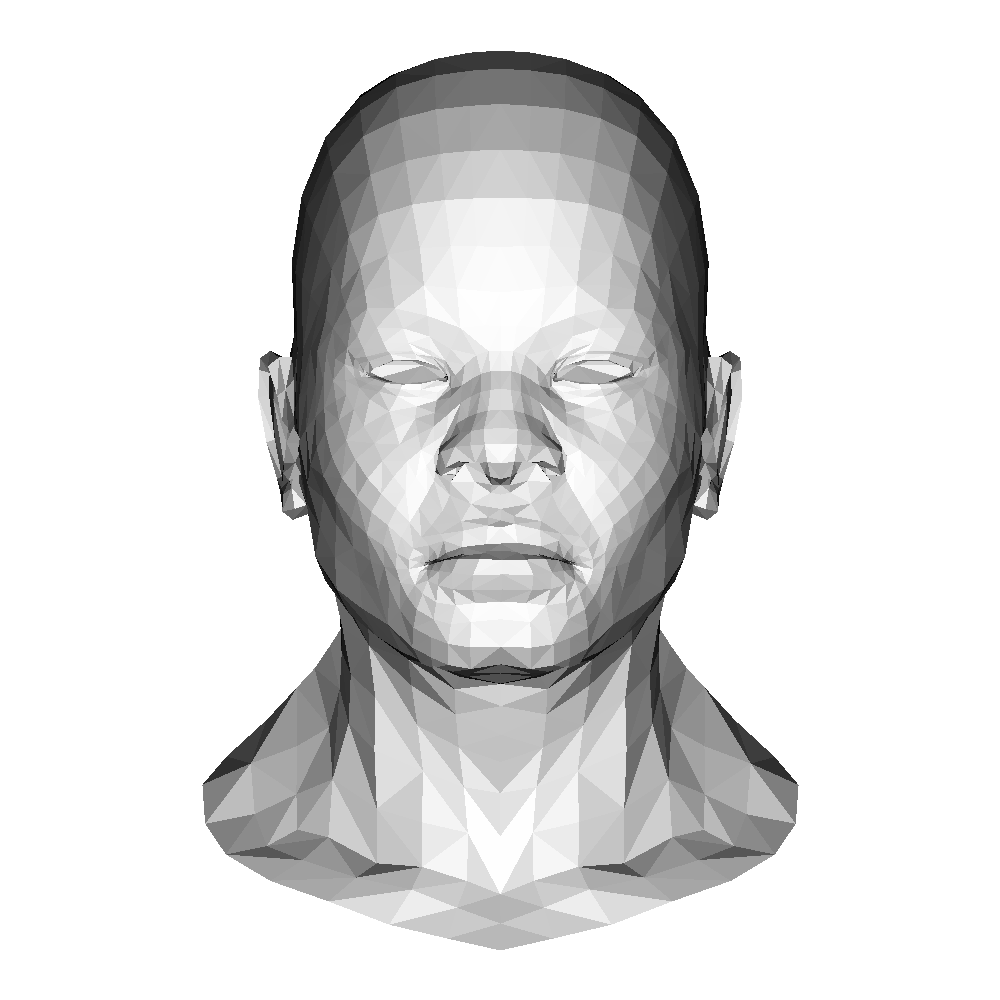
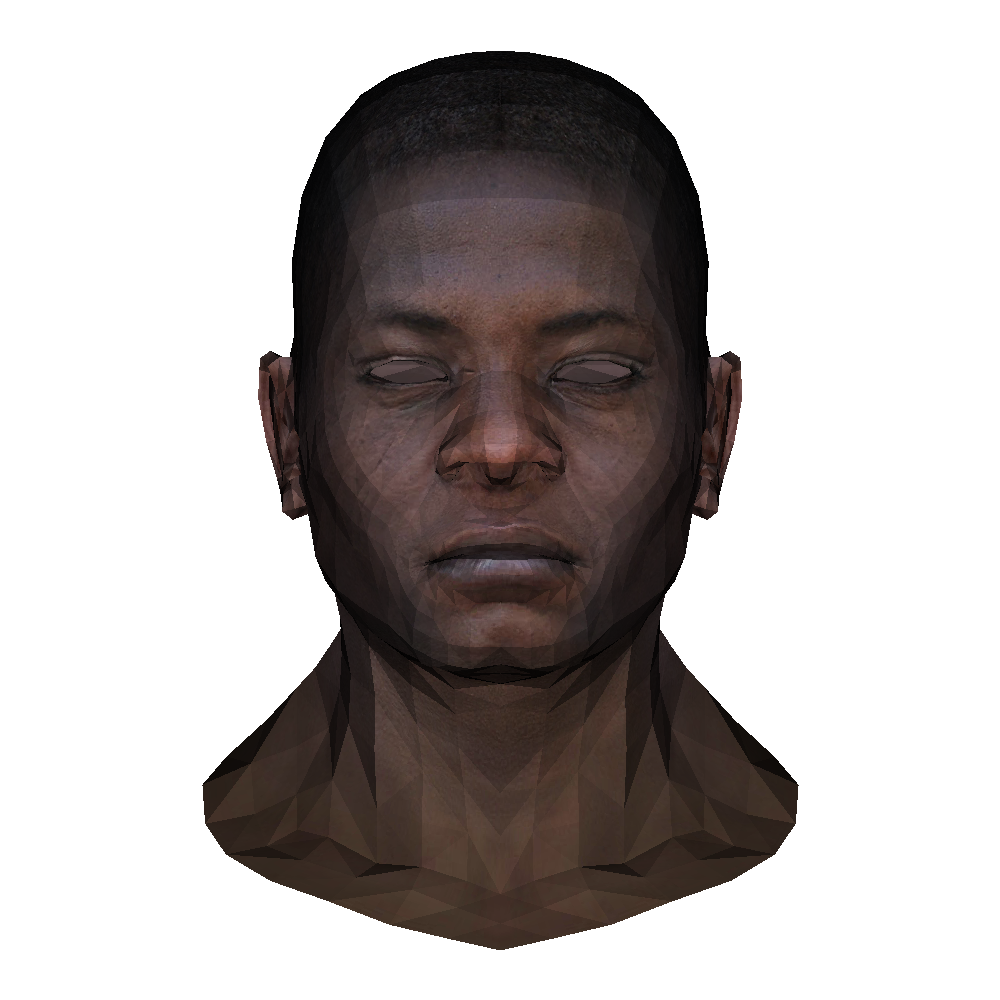
textures

diff --git a/main.py b/main.py
@@ -21,26 +21,43 @@ def get_point(index):
                     scale * vertex_list[index, 1] + center,
                     scale * vertex_list[index, 2] + center)
 
+#завел отдельный метод, потому что чтобы унифицировать с get_point, то надо будет постоянно массив передавать, а это так себе затея
+#думаю, и так нормально. Вычитать нужно, потому что он так в каком-то перевернутом виде. Установил просто эмпирически
+#texture -- картинка с текстурой, сами значения в обж лежат в диапазоне от 0 до 1, так что надо умножать на размер по каждому измерению
+def get_texture_point(index):
+    return tr.Point(texture.size[0]*float(texture_coordinates[index].first), texture.size[1] - texture.size[1]*float(texture_coordinates[index].second), 0)
+
 
 if __name__ == '__main__':
     im = Image.new('RGB', (1000, 1000), color=(255, 255, 255, 0))
+    texture = Image.open('african_head_diffuse.png')
+    texture = texture.convert('RGB')
+    width, height = texture.size
+    print(width, height)
     draw = ImageDraw.Draw(im)
     scale = - im.width / 2 * .9
     center = im.width / 2
-    vertex_list, edges_list,texture_list = getPointDraw('african_head.obj')
+    vertex_list, edges_list_with_text, texture_coordinates = getPointDraw('african_head.obj')
     color = (255, 255, 255)
     cam_direction = tr.Point(0, 0, 1)
     light_direction = tr.Point(0, 0, 1)
     z_buffer = np.array(list(repeat(sys.maxsize, im.width * im.height)))
     z_buffer.shape = (im.width, im.height)
+    trianglesWithCoords = [tr.Triangle(get_point(int(triangle.first) - 1),
+                                        get_point(int(triangle.second) - 1),
+                                        get_point(int(triangle.third) - 1),
+                                       get_texture_point(int(triangle.textureFirst) - 1),
+                                       get_texture_point(int(triangle.textureSecond)-1),
+                                       get_texture_point(int(triangle.textureThird)-1)) for triangle in edges_list_with_text]
+
 
     for triangle in filter(lambda polygon: polygon.direction().angle(cam_direction) > 0,
-                           [tr.Triangle(get_point(int(triangle.first) - 1),
-                                        get_point(int(triangle.second) - 1),
-                                        get_point(int(triangle.third) - 1)) for triangle in edges_list]):
+                           trianglesWithCoords):
         light_angle = triangle.direction().angle(light_direction)
 
-        pt.paint_triangle(triangle, draw, z_buffer, color=tuple([int(i * light_angle) for i in list(color)]),
+        #Вообще говоря, для отрисовки треугольников color больше не нужен, поскольку цвет берется из файла текстур,
+        #но раз уж у нас остается функционал отрисовки линий, то передавать цвет все равно нужно
+        pt.paint_triangle(triangle, draw, z_buffer, light_angle, texture, color=tuple([int(i * light_angle) for i in list(color)]),
                           lines=False)
 
     im.save('african_head.png')

diff --git a/painter.py b/painter.py
@@ -97,7 +97,7 @@ def draw_pixel(point: tr.Point, z_buffer, draw: ImageDraw, color=(255, 0, 0)):
         z_buffer[point.first, point.second] = point.third
 
 
-def colorize(polygon: tr.Triangle, draw: ImageDraw, z_buffer, color=(255, 0, 0)):
+def colorize(polygon: tr.Triangle, draw: ImageDraw, light_angle, texture: Image, z_buffer, color=(255, 0, 0)):
     """
     Colorize inner part of triangle with specified color
     """
@@ -108,19 +108,26 @@ def colorize(polygon: tr.Triangle, draw: ImageDraw, z_buffer, color=(255, 0, 0))
     y1 = int(max(first.second, second.second, third.second))
     for x in range(x0, x1 + 1):
         for y in range(y0, y1 + 1):
-            if polygon.is_inside_triangle(gr.Point(x, y)):
+            l0, l1, l2 = polygon.getBaricenterCordinates((gr.Point(x, y)))
+            is_inside_triangle = l0 >= 0 and l1 >= 0 and l2 >= 0
+            if is_inside_triangle:
+                #получаем координаты пикселя, соответствующего отрисовываемому в данный момент, из файла текстур
+                coord1 = int(polygon.textureFirst.first*l0 + polygon.textureSecond.first*l1 + polygon.textureThird.first*l2)
+                coord2 = int(polygon.textureFirst.second*l0 + polygon.textureSecond.second*l1 + polygon.textureThird.second*l2)
+                #получаем цвет пикселя из файла текстур по вычисленным координатам
+                (r, g, b) = texture.getpixel((coord1, coord2))
                 z = polygon.bilinear_interpolation(gr.Point(x, y))
-                draw_pixel(tr.Point(x, y, z), z_buffer, draw, color)
+                draw_pixel(tr.Point(x, y, z), z_buffer, draw, tuple( int (color*light_angle) for color in (r, g, b)))
 
 
-def paint_triangle(polygon: tr.Triangle, draw: ImageDraw, z_buffer, color=(255, 0, 0),
+def paint_triangle(polygon: tr.Triangle, draw: ImageDraw, z_buffer, light_angle, texture, color=(255, 0, 0),
                    line_func=line_brezenhem, lines=True, fill=True):
     if lines:
         line_func(polygon.first.projection(), polygon.second.projection(), draw, color)
         line_func(polygon.second.projection(), polygon.third.projection(), draw, color)
         line_func(polygon.third.projection(), polygon.first.projection(), draw, color)
     if fill:
-        colorize(polygon, draw, z_buffer, color)
+        colorize(polygon, draw, light_angle, texture, z_buffer, color)
 
 def get_texture():
     vertex_list, edges_list, texture_list = getPointDraw('african_head.obj')

diff --git a/obj_parser.py b/obj_parser.py
@@ -7,7 +7,7 @@ def getPointDraw(filename):
     objFile = open(filename, 'r')
     vertexList = []
     edgesList = []
-    textureList = []
+    textureVertexes = []
     textureСoordinates = []
 
     for line in objFile:
@@ -17,23 +17,30 @@ def getPointDraw(filename):
         if split[0] == "v":
             vertexList.append(split[1:])
         if split[0] == "vt":
-            textureList.append(readTextureInTriangl(line))
+            textureСoordinates.append(readTextureInTriangl(line))
         if split[0] == "f":
-            edgesList.append(readEdges(line))
-            textureСoordinates.append(readTexture(line))
+            edgesList.append(readEdgesWithTextures(line))
 
     objFile.close()
     vertexList = np.array(vertexList, dtype=np.float32)
     vertexList = np.matrix(vertexList)
     vertexList /= vertexList.max()
-    return vertexList, edgesList , textureList
+    return vertexList, edgesList, textureСoordinates
 
-def readEdges(line):
+
+#Переписал метод, чтобы он одновременно считывал и вершины, и информацию про текстуры, я думаю, так удобнее,
+#чтобы потом не прихоидлось между собой эти массивы соединять
+#В конструкторе для треугольника заданы дефолтные значения для координат текстур, так что можно передавать
+#только первые три, если нужен обычный треугольник без текстур
+def readEdgesWithTextures(line):
     split = line.split()
     vertexes = []
+    textures = []
     for i in range(1, len(split)):
-        vertexes.append(split[i].split('/')[0])
-    triangle = tr.Triangle(vertexes[0], vertexes[1], vertexes[2])
+        indexesBySlash = split[i].split('/')
+        vertexes.append(indexesBySlash[0])
+        textures.append(indexesBySlash[1])
+    triangle = tr.Triangle(vertexes[0], vertexes[1], vertexes[2], textures[0], textures[1], textures[2])
     return triangle
 
 def readTexture(line):

diff --git a/triangle.py b/triangle.py
@@ -55,10 +55,19 @@ class Triangle:
     Describes triangle polygon
     """
 
-    def __init__(self, first: Point, second: Point, third: Point):
+    def __init__(self, first: Point, second: Point, third: Point, textureFirst = 0, textureSecond = 0, textureThird = 0):
         self.first = first
         self.second = second
         self.third = third
+        self.textureFirst = textureFirst
+        self.textureSecond = textureSecond
+        self.textureThird = textureThird
+
+    # def __init__(self, first: Point, second: Point, third: Point):
+    #     self.first = first
+    #     self.second = second
+    #     self.third = third
+
 
     def direction(self) -> Point:
         """
@@ -99,6 +108,7 @@ class Triangle:
         l0,l1,l2 = self.getBaricenterCordinates(point)
         return l0 >= 0 and l1 >= 0 and l2 >= 0
 
+#Вынесли в отдельный метод, потому что для текстур нужно не только проверить условие, но и сами координаты
     def getBaricenterCordinates(self, point: graphics.Point):
         first, second, third = self.first.projection(), self.second.projection(), self.third.projection()
         l0 = ((point.y - third.y) * (second.x - third.x) - (point.x - third.x) * (second.y - third.y)) / \
